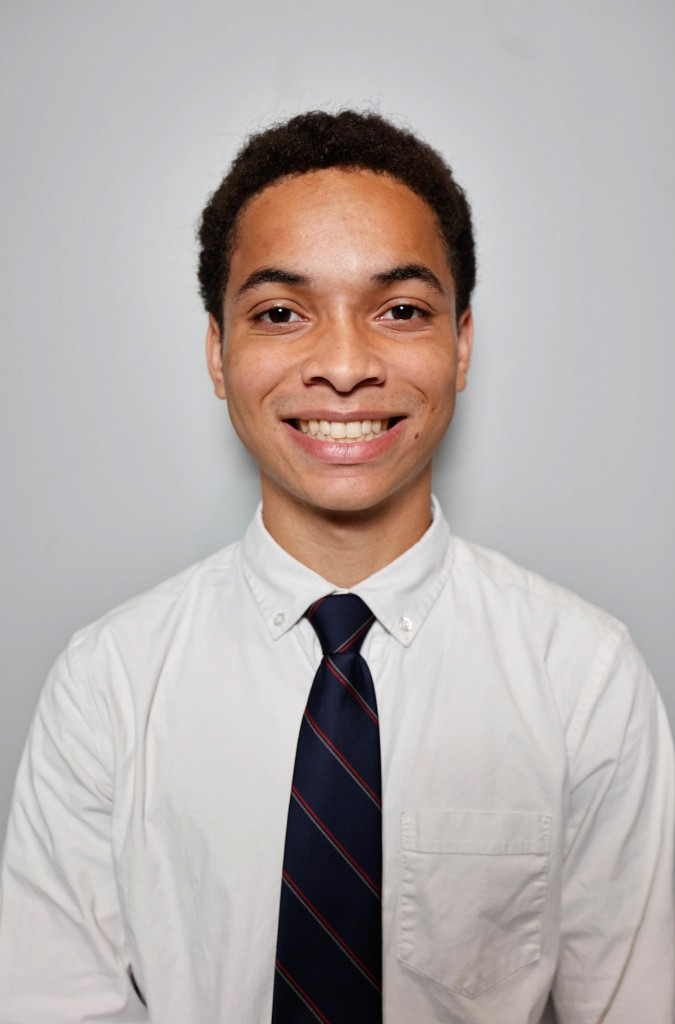
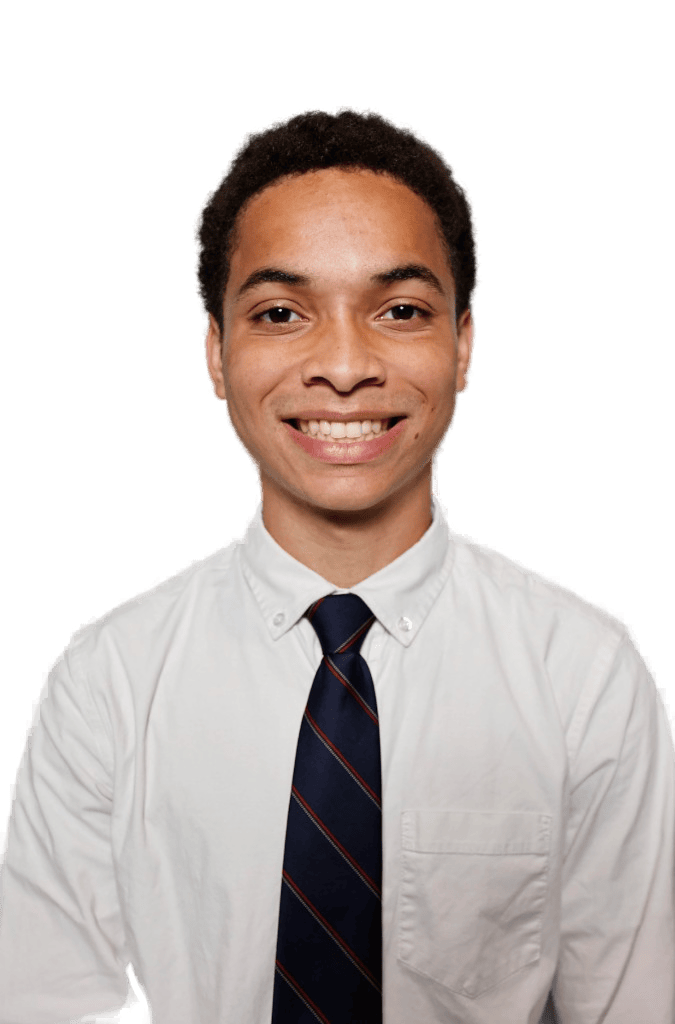
Transparent headshot + robust light/dark theme toggling
Headshot:
- Remove studio background (ML segmentation) -> transparent PNG, pngquant-optimized
- Square top crop via aspect-square so it scales with the page without re-cropping

Theme:
- Default the portfolio theme to the OS preference so a dark-OS visitor gets the
  real dark theme (force-dark-immune) instead of a light one the browser mangles
- Pre-paint boot script + restored `color-scheme: light dark` opt-out
- Make the light/dark flip atomic: setDarkClass() suppresses color transitions
  for one frame (.theme-switching) so every surface snaps together. Fixes the
  random half-light/half-dark render caused by a large surface's 300ms
  background transition lagging (and occasionally getting stuck) on rapid toggles
- Route all three .dark appliers through the single helper to prevent desync

diff --git a/src/store/themeStore.ts b/src/store/themeStore.ts
@@ -273,6 +273,43 @@ export const themePresets: Record<string, ThemePreset> = {
 const THEME_STORAGE_KEY = 'edusei-workstation-theme';
 const PORTFOLIO_DARK_KEY = 'edusei-portfolio-dark';
 
+let themeSwitchToken = 0;
+
+/**
+ * Atomically toggle the portfolio's `.dark` class on <html>.
+ *
+ * The flip is wrapped in a one-frame `.theme-switching` window that disables all
+ * color transitions (see index.css), so every themed surface snaps to the new
+ * theme in the same paint instead of transitioning at different rates. That
+ * eliminates the transient — and occasionally permanently stuck — half-light/
+ * half-dark render seen when the light/dark toggle is hit rapidly.
+ *
+ * Idempotent: a call that matches the current state is a no-op, so the several
+ * effects that keep the root in sync don't each trigger a redundant flip.
+ */
+export function setDarkClass(on: boolean): void {
+  if (typeof document === 'undefined') return;
+  const root = document.documentElement;
+  if (root.classList.contains('dark') === on) return;
+
+  root.classList.add('theme-switching');
+  root.classList.toggle('dark', on);
+  // Force a synchronous reflow so the new colors commit with transitions off.
+  void root.offsetWidth;
+
+  const token = ++themeSwitchToken;
+  const reenable = () => {
+    // Only the most recent switch clears the flag, so a flip that lands while a
+    // previous one is still settling doesn't re-enable transitions early.
+    if (token === themeSwitchToken) root.classList.remove('theme-switching');
+  };
+  if (typeof requestAnimationFrame === 'function') {
+    requestAnimationFrame(() => requestAnimationFrame(reenable));
+  } else {
+    reenable();
+  }
+}
+
 export const SYSTEM_THEME_ID = 'system';
 
 function getStoredTheme(): string {
@@ -292,7 +329,15 @@ function getStoredPortfolioDark(): boolean {
     if (stored === 'true') return true;
     if (stored === 'false') return false;
   } catch (_) {}
-  return false;
+  // No explicit choice yet — follow the OS/browser preference. This keeps the
+  // portfolio's theme aligned with the environment so a dark-preferring browser
+  // gets our real dark theme instead of a light one that its force-dark engine
+  // would mangle. The pre-paint boot script in index.html mirrors this logic.
+  try {
+    return window.matchMedia('(prefers-color-scheme: dark)').matches;
+  } catch (_) {
+    return false;
+  }
 }
 
 /** Resolve system preference: dark -> dark theme, light -> clean (Modern). */

diff --git a/src/index.css b/src/index.css
@@ -13,11 +13,18 @@
  * Scoped under .pf (portfolio) so the 3D workstation + terminal stay untouched.
  * ============================================================================= */
 :root {
-  /* Declare that this page manages its own light/dark theming. This opts the
-     page out of the browser's "Auto Dark Mode" (Chrome force-dark), which would
-     otherwise heuristically darken solid section backgrounds while leaving
-     gradient/image surfaces (e.g. the hero mesh) light — producing a broken,
-     half-light/half-dark render that looks like the modes are "mixed up". */
+  /* Declare that this page manages its own light/dark theming. The value must
+     include `dark` for the browser to treat the page as dark-aware — that is
+     what disables Chrome's "Auto Dark Mode" (force-dark), which otherwise
+     lightness-inverts our near-white surfaces while leaving saturated colors and
+     image cards alone, producing the broken half-light/half-dark "mixed up"
+     render. (.dark below narrows this to `dark` once the dark theme is active.)
+
+     Some aggressive WebView/flag-forced force-dark engines ignore color-scheme
+     entirely. For those we ALSO default the portfolio theme to the OS preference
+     (see getStoredPortfolioDark in themeStore.ts): a dark-preferring visitor
+     then gets our real dark theme — which force-dark leaves untouched because it
+     is already dark — instead of a mangled light one. */
   color-scheme: light dark;
 
   /* Signature accent — cobalt→cyan "current", with amber as the warm tertiary.
@@ -55,6 +62,19 @@
   --pf-line: rgba(255, 255, 255, 0.10);
   --pf-shadow: 0 24px 60px -24px rgba(0, 0, 0, 0.75);
   --pf-shadow-accent: 0 26px 80px -30px rgba(37, 99, 235, 0.5);
+}
+
+/* Atomic theme switch. While the root carries `.theme-switching` (added for a
+   single frame around a light/dark flip — see setDarkClass in themeStore.ts),
+   ALL color transitions are killed so every surface snaps to the new theme in
+   the same paint. Without this, large surfaces (e.g. .pro-scroll's background)
+   transition their resolved color over ~300ms while smaller elements snap
+   instantly, leaving a half-light/half-dark render mid-toggle — which Chromium
+   can occasionally leave permanently stuck when toggled rapidly. */
+.theme-switching *,
+.theme-switching *::before,
+.theme-switching *::after {
+  transition: none !important;
 }
 
 @layer components {

diff --git a/src/components/professional/ProfessionalView.tsx b/src/components/professional/ProfessionalView.tsx
@@ -26,7 +26,7 @@ import {
   studyAbroad,
   getSayHiMailto,
 } from '../../data';
-import { useThemeStore } from '../../store/themeStore';
+import { useThemeStore, setDarkClass } from '../../store/themeStore';
 import CountUp from '../CountUp';
 import { BackToTop } from './BackToTop';
 import { FloatingDock } from './FloatingDock';
@@ -73,9 +73,7 @@ export function ProfessionalView() {
   const scrollContainerRef = useRef<HTMLDivElement>(null);
 
   useLayoutEffect(() => {
-    const root = document.documentElement;
-    if (portfolioDark) root.classList.add('dark');
-    else root.classList.remove('dark');
+    setDarkClass(portfolioDark);
   }, [portfolioDark]);
 
   useEffect(() => {
@@ -342,12 +340,14 @@ export function AboutBand() {
 
           <Reveal delay={0.1}>
             <div className="overflow-hidden rounded-[var(--pf-radius-lg)] border border-[var(--pf-line)] bg-[var(--pf-bg-elev)] shadow-[var(--pf-shadow)]">
-              {/* headshot — clean, cropped to the face */}
+              {/* headshot — transparent cutout, square crop from the top.
+                  aspect-square keeps a constant 1:1 box, so the crop never
+                  changes on resize — the image only scales with the page. */}
               <img
                 src="/headshot.png"
                 alt={profileData.name}
-                className="h-72 w-full object-cover"
-                style={{ objectPosition: '50% 18%' }}
+                className="aspect-square w-full object-cover object-top"
+                style={{ objectPosition: '50% 12%' }}
               />
               <dl className="divide-y divide-[var(--pf-line)]">
                 {facts.map((f) => (

diff --git a/index.html b/index.html
@@ -7,8 +7,22 @@
     <link rel="manifest" href="/manifest.json" />
     <link rel="canonical" href="https://www.jalenedusei.com" />
     <meta name="theme-color" content="#0a0a0a" />
-    <!-- Page manages its own dark mode; opt out of browser Auto Dark Mode / force-dark. -->
+    <!-- Page manages its own dark mode; `light dark` opts the page out of browser
+         Auto Dark Mode / force-dark (the value must include `dark`). -->
     <meta name="color-scheme" content="light dark" />
+    <script>
+      // Decide the portfolio's dark mode before first paint, so the page never
+      // boots into the light theme on a dark-preferring browser (which would then
+      // be force-darkened into a broken half-light render). Honor an explicit
+      // saved choice; otherwise follow the OS/browser preference. Keep this in
+      // sync with getStoredPortfolioDark() in src/store/themeStore.ts.
+      try {
+        var saved = localStorage.getItem('edusei-portfolio-dark');
+        var dark = saved === 'true'
+          || (saved == null && window.matchMedia('(prefers-color-scheme: dark)').matches);
+        if (dark) document.documentElement.classList.add('dark');
+      } catch (e) {}
+    </script>
     <meta name="viewport" content="width=device-width, initial-scale=1.0, maximum-scale=1.0, user-scalable=no" />
     <title>Jalen Edusei | Software Engineer · UGA 2026</title>
     <meta name="description" content="Jalen Edusei — Software Engineer. B.S. Computer Systems Engineering at UGA. VR, embedded systems, CubeSat flight software, and product engineering. Portfolio and 3D workstation." />

diff --git a/src/App.tsx b/src/App.tsx
@@ -8,7 +8,7 @@ import { Overlay } from './components/Overlay';
 import { useKonamiCode } from './hooks/useKonamiCode';
 import { usePrefersReducedMotion } from './hooks/useIsMobile';
 import { useWorkstationStore, useViewMode } from './store/store';
-import { useActiveTheme, useThemeStore, useResolvedThemeId, SYSTEM_THEME_ID } from './store/themeStore';
+import { useActiveTheme, useThemeStore, useResolvedThemeId, SYSTEM_THEME_ID, setDarkClass } from './store/themeStore';
 import { ModeToggle } from './components/ModeToggle';
 import { ProfessionalView } from './components/professional/ProfessionalView';
 import { ThemeSelector } from './components/ThemeSelector';
@@ -87,12 +87,7 @@ function App() {
   }, [prefersReducedMotion, setPrefersReducedMotion]);
 
   useLayoutEffect(() => {
-    const root = document.documentElement;
-    if (viewMode === 'professional' && portfolioDark) {
-      root.classList.add('dark');
-    } else {
-      root.classList.remove('dark');
-    }
+    setDarkClass(viewMode === 'professional' && portfolioDark);
   }, [viewMode, portfolioDark]);
 
   return (

diff --git a/src/components/professional/SectionPage.tsx b/src/components/professional/SectionPage.tsx
@@ -13,7 +13,7 @@ import { useEffect, useLayoutEffect, useRef } from 'react';
 import { Link, useNavigate } from 'react-router-dom';
 import { Moon, SunMedium, Boxes } from 'lucide-react';
 import { profileData } from '../../data';
-import { useThemeStore } from '../../store/themeStore';
+import { useThemeStore, setDarkClass } from '../../store/themeStore';
 import { useWorkstationStore } from '../../store/store';
 import { PortfolioSearch } from '../PortfolioSearch';
 import { Footer } from './ProfessionalView';
@@ -107,9 +107,7 @@ export function SectionPage({
 
   // Keep the document root in sync with the portfolio's dark-mode preference.
   useLayoutEffect(() => {
-    const root = document.documentElement;
-    if (portfolioDark) root.classList.add('dark');
-    else root.classList.remove('dark');
+    setDarkClass(portfolioDark);
   }, [portfolioDark]);
 
   useEffect(() => {
